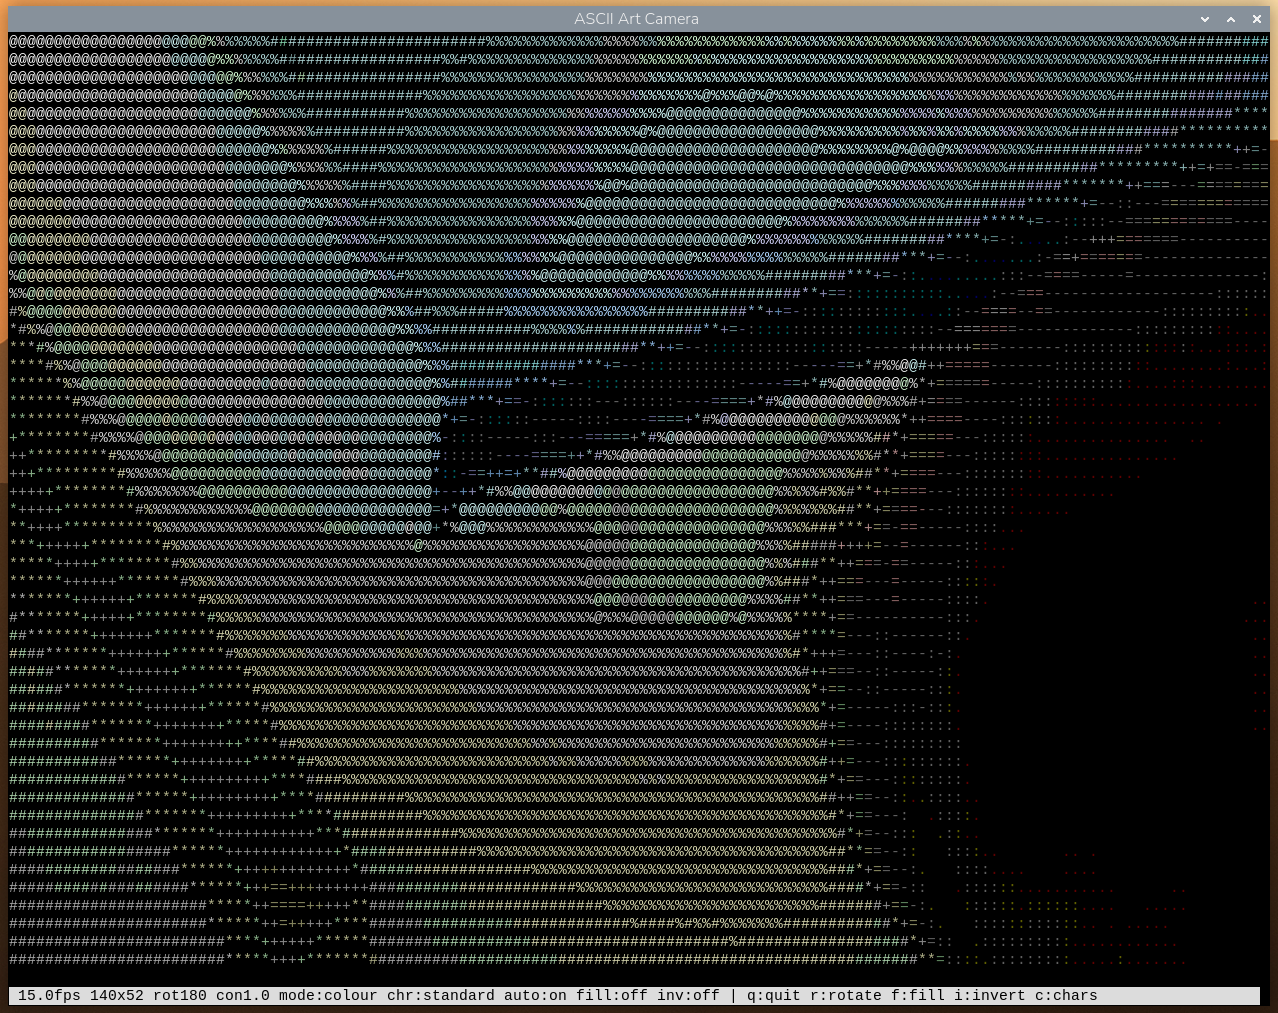
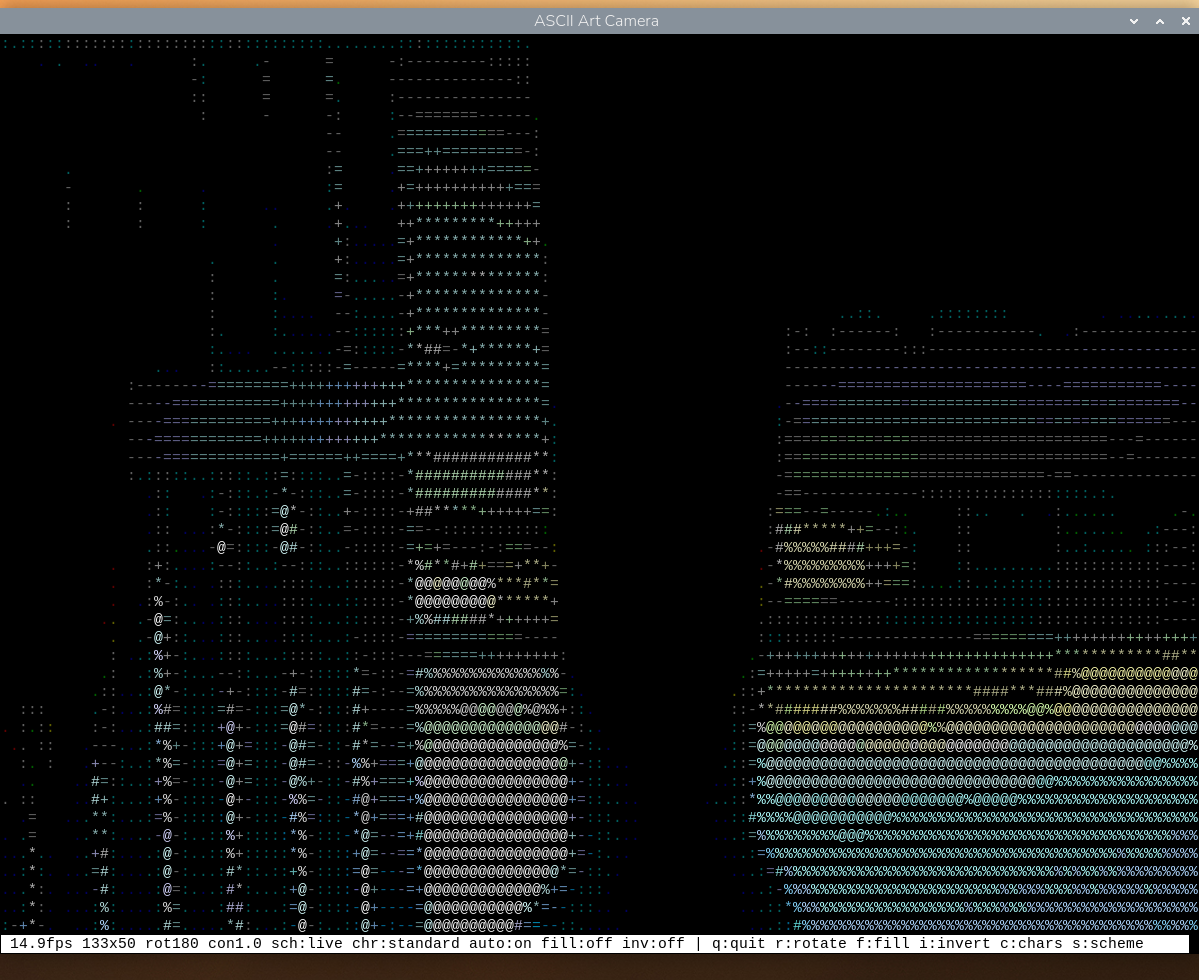
Add a colour scheme montage, and retake the screenshots un-mirrored
The README described nine colour schemes without showing any of them,
which is a poor way to choose between things whose whole point is how
they look.

tools/scheme_montage.py renders all nine from one captured frame. That
constraint is the figure's reason for existing: the reader is comparing
colour, so nothing else may vary. It does not screenshot the running app
nine times, because a live camera gives a slightly different frame each
shot - the scene drifts, auto-levels re-stretch, noise moves - and those
differences are exactly the kind that make a reader wonder whether the
schemes change something else too. Instead the character grid is
computed once and every tile reuses it, so the pictures are provably
identical rather than merely similar.

The tool asserts that before writing the file: each tile is reduced to
which pixels a glyph covers, and the masks must agree. Eight of the nine
are checked that way. live is checked structurally instead, because its
ink comes from the scene - a cell the camera saw as nearly black renders
nearly black whether a glyph covers it or not, so the question is not
answerable from its pixels.

The two existing screenshots are retaken, since both predated the
mirroring fix and so showed a reversed picture. Their captions are
corrected to the sizes and frame rates the new images actually show.

sync.sh gains a TOOL_FILES array for the generator, which unlike the
rest of tools/ needs the camera and so has to exist on both sides. It
[…]

diff --git a/tools/scheme_montage.py b/tools/scheme_montage.py
@@ -1,0 +1,300 @@
+#!/usr/bin/env python3
+"""
+Build the colour-scheme montage used in the README.
+
+    python3 tools/scheme_montage.py                    # capture and render
+    python3 tools/scheme_montage.py --frame shot.npy   # reuse a saved frame
+    python3 tools/scheme_montage.py --save-frame shot.npy
+
+Nine tiles, one per scheme, showing **the same picture** in every one. That is
+the whole point of the figure - the reader is comparing colour, so nothing else
+may vary - and it is why this does not simply screenshot the running app nine
+times. A live camera gives a slightly different frame each shot: the scene
+drifts, auto-levels re-stretch, sensor noise moves. The differences are small
+but they are exactly the kind that make a reader wonder whether the schemes
+change anything else.
+
+So one frame is captured once, and the character grid is computed from it
+*once*. Every tile then reuses that identical grid of ramp positions, and only
+the colour lookup differs. The pictures are therefore provably identical - not
+merely similar - and `--verify` asserts it.
+
+The rendering is the panel's own: the same GlyphAtlas, the same blend from
+screen colour to ink by glyph coverage. So the tiles show what the app really
+draws rather than an impression of it.
+"""
+
+import argparse
+import logging
+import sys
+import time
+from pathlib import Path
+
+import numpy as np
+from PIL import Image, ImageDraw, ImageFont
+
+ROOT = Path(__file__).resolve().parent.parent
+sys.path.insert(0, str(ROOT / "src"))
+
+import palettes                                  # noqa: E402
+from ascii_art import AsciiArt                   # noqa: E402
+from image_processor import ImageProcessor       # noqa: E402
+from lcd_display import DEFAULT_FONT, GlyphAtlas  # noqa: E402
+
+logger = logging.getLogger("montage")
+
+# 80 columns at font size 9 gives a 5x12 cell, and 25 rows then makes the tile
+# exactly 400x300 - a true 4:3, matching the camera, so nothing is cropped.
+COLUMNS = 80
+FONT_SIZE = 9
+CAMERA_ASPECT = 4 / 3
+
+GAP = 14
+LABEL_HEIGHT = 22
+PER_ROW = 3
+LABEL_BG = (24, 24, 26)
+LABEL_FG = (232, 232, 232)
+
+
+def capture(width=320, height=240, warmup=12.0):
+    """
+    Grab a single frame, giving the sensor time to settle first.
+
+    The warm-up is generous on purpose. Three seconds was not enough on this
+    Pi - auto-exposure was still winding up, and the montage came out so dark
+    that the picture was hard to read in every tile at once. Twelve seconds
+    gets a properly exposed frame, and this runs once to make a figure, so the
+    wait costs nothing that matters.
+    """
+    from camera import CameraCapture
+
+    camera = CameraCapture(resolution=(width, height), frame_rate=15)
+    camera.start()
+    try:
+        # The first frames come out before auto-exposure has settled, and a
+        # murky one would make every tile look bad in the same way.
+        deadline = time.time() + warmup
+        frame = None
+        while time.time() < deadline:
+            got = camera.get_frame(timeout=1.0)
+            if got is not None:
+                frame = got
+        if frame is None:
+            raise RuntimeError("no frame arrived from the camera")
+        return frame
+    finally:
+        camera.stop()
+
+
+class SavedFrame:
+    """A YuvFrame rebuilt from a .npy, so a montage can be reproduced."""
+
+    def __init__(self, buffer, width, height):
+        self._buf = buffer
+        self.width = width
+        self.height = height
+
+    @property
+    def shape(self):
+        return self.height, self.width
+
+    @property
+    def luma(self):
+        return self._buf[:self.height, :self.width]
+
+    @property
+    def chroma(self):
+        h, w = self.height, self.width
+        flat = self._buf[h:, :w].reshape(-1)
+        plane = (h // 2) * (w // 2)
+        return (flat[:plane].reshape(h // 2, w // 2),
+                flat[plane:plane * 2].reshape(h // 2, w // 2))
+
+
+def render_tile(atlas, indices, colours, screen):
+    """
+    One tile: glyphs blended from the screen colour to each cell's colour.
+
+    The same arithmetic lcd_display uses, but landing on 8-bit RGB rather than
+    the panel's RGB565.
+    """
+    cell_h, cell_w = atlas.cell_h, atlas.cell_w
+    rows, cols = indices.shape
+
+    coverage = (atlas.tiles[indices]
+                .transpose(0, 2, 1, 3)
+                .reshape(rows * cell_h, cols * cell_w))
+
+    big = np.repeat(np.repeat(colours, cell_h, axis=0), cell_w, axis=1)
+    base = np.array(screen, dtype=np.int32)
+    weight = coverage[..., None].astype(np.int32) + 1
+
+    pixels = base + (((big.astype(np.int32) - base) * weight) >> 8)
+    return Image.fromarray(np.clip(pixels, 0, 255).astype(np.uint8), "RGB")
+
+
+def colours_for(scheme, indices, art, processor, frame, processed, cols, rows):
+    """The per-cell colour grid a scheme wants, and the colour behind it."""
+    if scheme.kind == "grey":
+        # Every glyph at full white, which is what the terminal's own
+        # foreground gives in greyscale mode.
+        return np.full(indices.shape + (3,), 255, dtype=np.uint8), (0, 0, 0)
+    if scheme.kind == "live":
+        return (processor.colour_grid(frame, processed, cols, rows),
+                (0, 0, 0))
+    return (palettes.rgb_table(scheme, len(art.chars))[indices], scheme.screen)
+
+
+def build(frame, ramp="standard", invert=False, rotation=180, verify=True,
+          mirror=True):
+    """Render every scheme from one frame and return the tiles, in order."""
+    art = AsciiArt(ramp=ramp, invert=invert)
+    atlas = GlyphAtlas(art.chars, DEFAULT_FONT, FONT_SIZE)
+    cell_aspect = atlas.cell_h / atlas.cell_w
+
+    cols = COLUMNS
+    rows = max(1, round(cols / (CAMERA_ASPECT * cell_aspect)))
+
+    # fill=True so the picture occupies the whole tile, exactly as the panel
+    # does; every tile is then the same size and the same crop.
+    processor = ImageProcessor(rotation=rotation, fill=True,
+                               cell_aspect=cell_aspect, mirror=mirror)
+    processed = processor.process(frame.luma, cols, rows)
+
+    # Computed once, reused by every tile. This is what makes the pictures
+    # identical rather than merely similar.
+    indices = art.to_indices(processed)
+    logger.info("Grid %dx%d, cell %dx%d, tile %dx%d px", cols, rows,
+                atlas.cell_w, atlas.cell_h,
+                cols * atlas.cell_w, rows * atlas.cell_h)
+
+    tiles = []
+    for scheme in palettes.SCHEMES:
+        colours, screen = colours_for(scheme, indices, art, processor, frame,
+                                      processed, cols, rows)
+        tiles.append((scheme, render_tile(atlas, indices, colours, screen)))
+
+    if verify:
+        _verify_identical(tiles, atlas, indices)
+    return tiles
+
+
+MIN_AGREEMENT = 0.99
+LIT = 8          # per-channel deviation that counts as "a glyph is here"
+
+
+def _verify_identical(tiles, atlas, indices):
+    """
+    Assert the tiles differ only in colour, never in content.
+
+    Cheap insurance on the figure's one claim. Every tile is reduced to "which
+    pixels does a glyph cover", which must come out the same everywhere; a
+    scheme that somehow changed a character is what this would catch.
+
+    The `live` scheme is checked structurally rather than by pixels, and the
+    reason is worth stating: its ink colour comes from the scene, so a cell the
+    camera saw as nearly black renders nearly black whether a glyph covers it
+    or not. "Is a glyph here" is genuinely unrecoverable from those pixels. It
+    still shares the one `indices` array with every other tile, which is what
+    actually guarantees the content matches - the pixel comparison is only a
+    stronger spot check where the ink is a known constant.
+    """
+    cell_h, cell_w = atlas.cell_h, atlas.cell_w
+    rows, cols = indices.shape
+    expected = (atlas.tiles[indices]
+                .transpose(0, 2, 1, 3)
+                .reshape(rows * cell_h, cols * cell_w) > LIT)
+
+    checked = 0
+    for scheme, tile in tiles:
+        if scheme.kind == "live":
+            continue
+        pixels = np.asarray(tile).astype(np.int32)
+        # Deviation from this tile's own background corner, which no glyph
+        # covers in any scheme, so "lit" means the same thing in all of them.
+        # Per-channel max rather than a sum: it does not let three small
+        # channel differences add up to a false positive.
+        lit = np.abs(pixels - pixels[0, 0]).max(axis=2) > LIT
+        agreement = (lit == expected).mean()
+        if agreement < MIN_AGREEMENT:
+            raise AssertionError(
+                f"{scheme.name} does not show the same picture as the others "
+                f"({agreement:.1%} of pixels agree)")
+        checked += 1
+
+    logger.info("Verified: %d of %d tiles match pixel for pixel in content; "
+                "all %d share one grid of ramp positions",
+                checked, len(tiles), len(tiles))
+
+
+def compose(tiles):
+    """Lay the tiles out in a labelled grid."""
+    width, height = tiles[0][1].size
+    columns = PER_ROW
+    lines = (len(tiles) + columns - 1) // columns
+
+    sheet = Image.new(
+        "RGB",
+        (columns * width + (columns + 1) * GAP,
+         lines * (height + LABEL_HEIGHT) + (lines + 1) * GAP),
+        LABEL_BG)
+    draw = ImageDraw.Draw(sheet)
+    try:
+        font = ImageFont.truetype(DEFAULT_FONT, 13)
+    except OSError:
+        font = ImageFont.load_default()
+
+    for i, (scheme, tile) in enumerate(tiles):
+        col, line = i % columns, i // columns
+        x = GAP + col * (width + GAP)
+        y = GAP + line * (height + LABEL_HEIGHT + GAP)
+        sheet.paste(tile, (x, y))
+        draw.text((x + 3, y + height + 4),
+                  f"{scheme.name}  -  {scheme.note}", fill=LABEL_FG, font=font)
+
+    return sheet
+
+
+def main():
+    parser = argparse.ArgumentParser(description=__doc__.split("\n")[1])
+    parser.add_argument("--out", default=str(ROOT / "docs" /
+                                             "scheme-montage.png"))
+    parser.add_argument("--frame", help="Render a saved .npy instead of "
+                                        "capturing a new frame")
+    parser.add_argument("--save-frame", help="Write the captured frame here, "
+                                             "so the montage can be remade")
+    parser.add_argument("--ramp", default="standard")
+    parser.add_argument("--invert", action="store_true")
+    parser.add_argument("--rotation", type=int, default=180)
+    parser.add_argument("--no-mirror", action="store_false", dest="mirror",
+                        help="Do not flip left to right; see "
+                             "ImageProcessor.rotate for why the flip exists")
+    parser.add_argument("--no-verify", action="store_true")
+    args = parser.parse_args()
+
+    logging.basicConfig(level=logging.INFO, format="%(message)s")
+
+    if args.frame:
+        buffer = np.load(args.frame)
+        height = buffer.shape[0] * 2 // 3
+        frame = SavedFrame(buffer, buffer.shape[1], height)
+        logger.info("Loaded %s (%dx%d)", args.frame, frame.width, frame.height)
+    else:
+        frame = capture()
+        logger.info("Captured %dx%d from the camera", frame.width, frame.height)
+        if args.save_frame:
+            np.save(args.save_frame, frame._buf)
+            logger.info("Saved the frame to %s", args.save_frame)
+
+    tiles = build(frame, args.ramp, args.invert, args.rotation,
+                  verify=not args.no_verify, mirror=args.mirror)
+    sheet = compose(tiles)
+
+    Path(args.out).parent.mkdir(parents=True, exist_ok=True)
+    sheet.save(args.out, optimize=True)
+    logger.info("Wrote %s (%dx%d)", args.out, sheet.width, sheet.height)
+    return 0
+
+
+if __name__ == "__main__":
+    sys.exit(main())

diff --git a/README.md b/README.md
@@ -6,12 +6,12 @@ the Android ASCII Art app.
 
 ![The ASCII Art Camera window running on a Raspberry Pi Zero 2](docs/screenshot.png)
 
-*Greyscale, running on the Pi at 14.9 fps. The status bar along the bottom
-reports the frame rate, ASCII grid size, and the current state of every
-toggle — rotation, contrast, colour mode, character ramp, auto-levels, fill
-and invert.*
+*Greyscale, running on the Pi at 15.0 fps in a 120 by 43 window. The status bar
+along the bottom reports the frame rate, ASCII grid size, and the current state
+of every toggle — rotation, contrast, colour scheme, character ramp,
+auto-levels, fill and invert.*
 
-![The same app in colour mode, 140 by 52 characters at 15 fps](docs/screenshot-colour.png)
+![The same app in the live colour scheme, 133 by 50 characters at 14.9 fps](docs/screenshot-colour.png)
 
 *Colour, at the full 15 fps. Press `s` to switch, or pass `--colour` at launch
 to have the window sized for colour automatically. The character still comes
@@ -88,6 +88,7 @@ A literal `--ramp` string (rather than one of the three names) reads out as
 | `--ramp` | `standard`, `fine`, `blocks`, or a literal string | `standard` | Character ramp, ordered light to dark. Cycle with `c` |
 | `--invert` | flag | off | Invert the ramp, for light-background terminals and positive-mode LCDs. Toggle with `i` |
 | `--cell-aspect` | float | `2.0` | Terminal character height/width ratio, which keeps the picture from looking squashed |
+| `--no-terminal` | flag | off | Draw nothing on the HDMI screen: no curses, no window. Needs `--lcd`. Keys still work when stdin is a terminal, as it is over SSH |
 | `--lcd` | flag | off | Also render to the ILI9341 SPI panel, alongside the terminal. See [The ILI9341 SPI panel](#the-ili9341-spi-panel) |
 | `--lcd-font-size` | integer | `8` | Glyph size, which sets the panel's grid. `8` gives 64x24; `6` gives 80x30 and `9` gives 64x20. All three tile 320x240 exactly and match the camera's 4:3 |
 | `--lcd-portrait` | flag | off | Run the panel as 240x320 instead of 320x240 |
@@ -134,6 +135,22 @@ reads out in the status bar as `sch:amber`.
 `grey` and `live` are the two original modes, kept unchanged and placed next to
 each other at the head of the cycle. Schemes 3 to 6 have dark screens, 7 to 9
 light ones, so cycling walks a deliberate arc rather than jumping about.
+
+![The nine colour schemes, all rendering one frame](docs/scheme-montage.png)
+
+*All nine schemes, and the comparison is a fair one: every tile is the same
+picture. One frame was captured, the character grid computed from it once, and
+each tile then reuses that identical grid of ramp positions — only the colour
+lookup differs. Nothing else can vary, because nothing else is recomputed.*
+
+Regenerate it with `python3 tools/scheme_montage.py`, which renders through the
+panel's own glyph atlas and blend, so the tiles show what the app really draws
+rather than an impression of it. It asserts its own claim before writing the
+file: each tile is reduced to which pixels a glyph covers, and those masks must
+agree. Eight of the nine are checked that way. `live` is checked structurally
+instead, because its ink comes from the scene — a cell the camera saw as nearly
+black renders nearly black whether a glyph covers it or not, so "is a glyph
+here" genuinely cannot be recovered from its pixels.
 
 ### Why these nine
 
@@ -883,6 +900,48 @@ bash run_ascii_camera.sh fit --lcd --scheme amber
 
 The panel shows only the picture — no status bar, no border, no window
 furniture.
+
+### Which displays to run
+
+The two outputs are independent, so there are four combinations and three of
+them are useful:
+
+| Terminal | Panel | How | Notes |
+|----------|-------|-----|-------|
+| yes | no | `bash run_ascii_camera.sh fit` | The default |
+| yes | yes | `bash run_ascii_camera.sh fit --lcd` | Both at once, independently sized |
+| no | yes | `python3 ascii_camera.py --lcd --no-terminal` | Headless: no window, no curses |
+| no | no | — | Refused, with exit code 2 |
+
+The last row is refused rather than allowed, because it would open the camera,
+render frames and show them to nobody — which is indistinguishable from a hang.
+The check happens before the log file is even opened, so the complaint lands on
+the terminal you are standing at.
+
+Headless mode is the reason the app can run without a desktop session at all.
+The launcher script is not used, since there is no window to size or profile to
+write; run `ascii_camera.py` directly. A status line goes to stdout every five
+seconds instead of being redrawn in place:
+
+```
+15.0fps headless rot180 con1.0 sch:amber chr:standard auto:on fill:off inv:off lcd:64x24
+```
+
+`headless` stands where the terminal grid usually reads, and `lcd:64x24` is the
+panel's own grid — the only one there is in this mode.
+
+**The single-key controls still work over SSH.** stdin is put in cbreak mode
+and polled without blocking, so `s`, `i`, `c` and the rest behave as they do in
+the window. When stdin is *not* a terminal — a systemd unit, a cron job, output
+piped elsewhere — key reading is disabled and the run uses whatever the command
+line asked for. Which it is gets logged either way.
+
+**Stopping it.** With no terminal on stdin there is no `q` to press, so a signal
+is the normal way a headless run ends. `SIGTERM` and `SIGINT` are both handled:
+the loop is asked to stop, and the camera and panel are released on the way out.
+Without that, Python's default `SIGTERM` exits without unwinding, leaving the
+panel lit with a frozen frame and its GPIO pins still claimed — which then
+breaks the next run.
 
 ### Wiring
 
